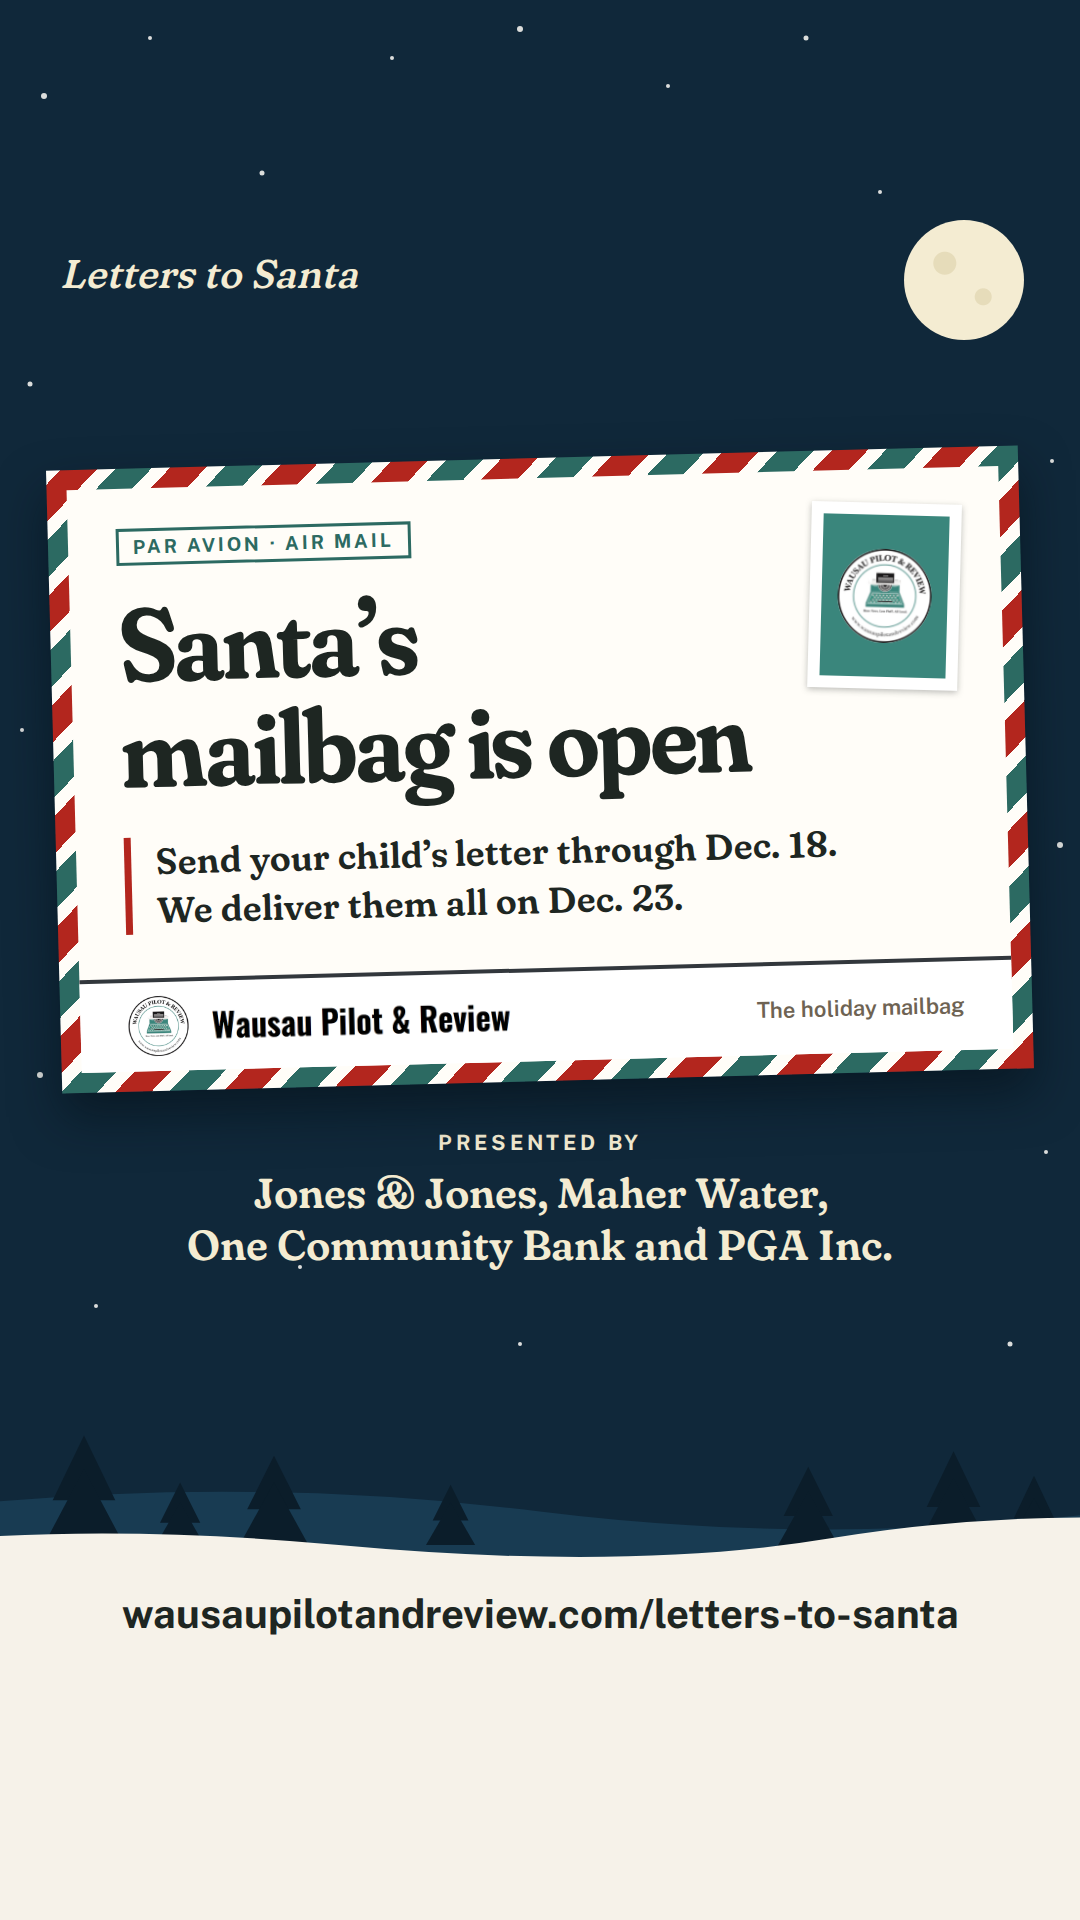
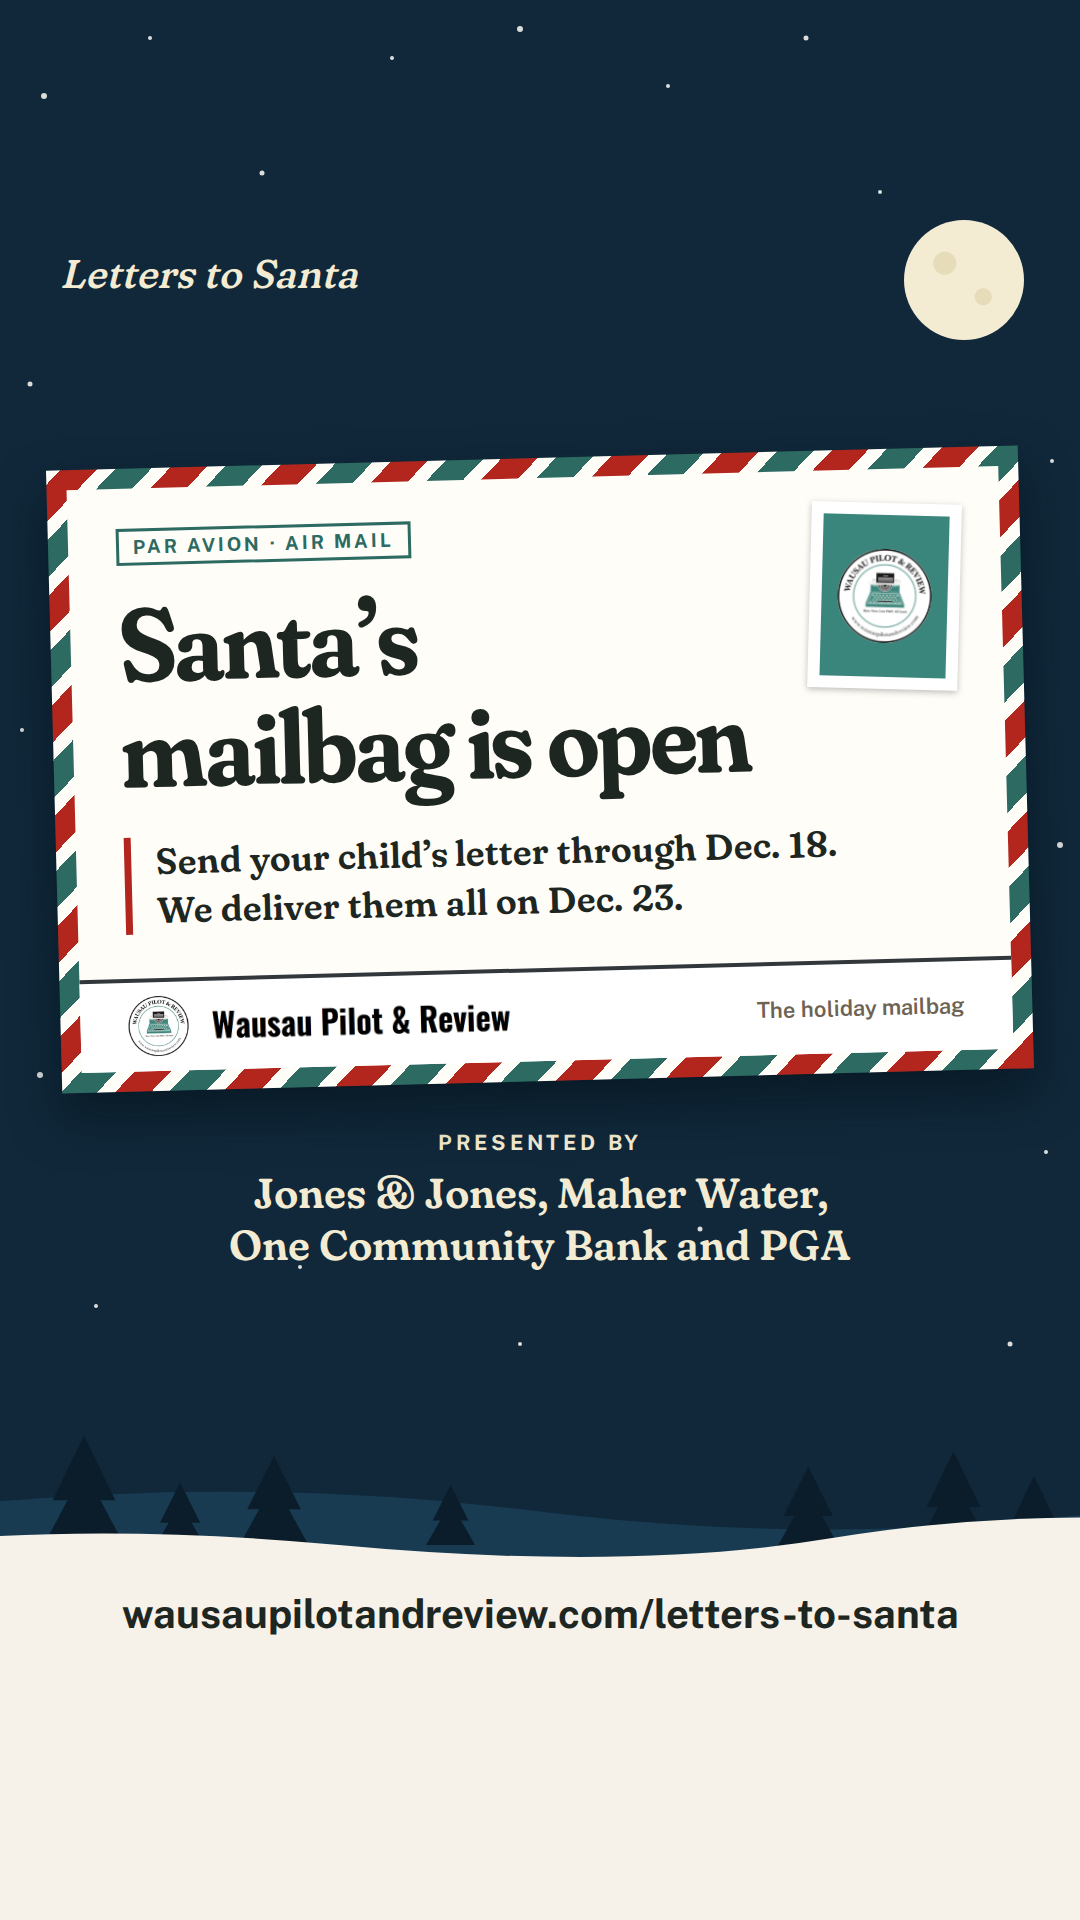
PGA's name as it should be set
The four presenting sponsors' names are confirmed: Jones & Jones, Maher
Water, One Community Bank, PGA. The launch kit is remade with "PGA" in
place of "PGA Inc.", and the ad list names it the same way, so a click on
its banner ad is counted under the name its row will have.

Changed region(s): [[0.1528, 0.625, 0.825, 0.6562]]

diff --git a/docs/social/posts.md b/docs/social/posts.md
@@ -11,9 +11,9 @@ Pictures: `1-letters-open-feed.png`, `1-letters-open-story.png`.
 
 > Santa’s mailbag is open! Parents and guardians, send your child’s letter to Santa through Dec. 18: type it, email it or mail it. We post letters as they come in and deliver every one to the North Pole on Dec. 23. https://wausaupilotandreview.com/letters-to-santa/
 >
-> Letters to Santa is presented by Jones & Jones, Maher Water, One Community Bank and PGA Inc.
+> Letters to Santa is presented by Jones & Jones, Maher Water, One Community Bank and PGA.
 
-Picture description (alt text): An airmail envelope on a snowy night reads “Santa’s mailbag is open.” Send your child’s letter through Dec. 18. We deliver them all on Dec. 23. Presented by Jones & Jones, Maher Water, One Community Bank and PGA Inc.
+Picture description (alt text): An airmail envelope on a snowy night reads “Santa’s mailbag is open.” Send your child’s letter through Dec. 18. We deliver them all on Dec. 23. Presented by Jones & Jones, Maher Water, One Community Bank and PGA.
 
 ## One week left to write to Santa
 
@@ -22,9 +22,9 @@ Pictures: `2-one-week-left-feed.png`, `2-one-week-left-story.png`.
 
 > One week left to write to Santa. Letters close Dec. 18. Read the ones already in the mailbag, and send your child’s before the sleigh leaves. https://wausaupilotandreview.com/letters-to-santa/
 >
-> Letters to Santa is presented by Jones & Jones, Maher Water, One Community Bank and PGA Inc.
+> Letters to Santa is presented by Jones & Jones, Maher Water, One Community Bank and PGA.
 
-Picture description (alt text): An airmail envelope on a snowy night reads “One week left to write to Santa.” Letters close Dec. 18. Type it, email it or mail it. Presented by Jones & Jones, Maher Water, One Community Bank and PGA Inc.
+Picture description (alt text): An airmail envelope on a snowy night reads “One week left to write to Santa.” Letters close Dec. 18. Type it, email it or mail it. Presented by Jones & Jones, Maher Water, One Community Bank and PGA.
 
 ## Delivered to the North Pole
 
@@ -33,6 +33,6 @@ Pictures: `3-delivered-feed.png`, `3-delivered-story.png`.
 
 > Every letter is on its way to the North Pole. Read them all, and see who won the prize drawing. Thank you to all the kids who wrote, and to the grown-ups who helped. https://wausaupilotandreview.com/letters-to-santa/
 >
-> Letters to Santa is presented by Jones & Jones, Maher Water, One Community Bank and PGA Inc.
+> Letters to Santa is presented by Jones & Jones, Maher Water, One Community Bank and PGA.
 
-Picture description (alt text): An airmail envelope on a snowy night reads “Delivered to the North Pole.” Read every letter in Santa’s mailbag. And see who won the prize drawing. Presented by Jones & Jones, Maher Water, One Community Bank and PGA Inc.
+Picture description (alt text): An airmail envelope on a snowy night reads “Delivered to the North Pole.” Read every letter in Santa’s mailbag. And see who won the prize drawing. Presented by Jones & Jones, Maher Water, One Community Bank and PGA.

diff --git a/CLAUDE.md b/CLAUDE.md
@@ -221,7 +221,7 @@ A flood of junk letters (abuse past Turnstile) is declined from the staff page: 
 - Supabase project, keys, secrets, SMTP, magic-link template, staff accounts: Shereen signs in with editor@wausaupilotandreview.com, Rowan with his own address (README, First deploy).
 - The digest's two Vault secrets (README, First deploy, step 10).
 - wpr-newsletter: done. Its `main` has the `santa-letters-section` change with production's address and key (checked Nov. 21; the save-and-read path was rehearsed on a local stack the same day: README, Newsletter). What's left is watching the first morning a section is saved.
-- Chris: the presenting sponsors' names as they should be set, then `docs/social/kit.json` and `scripts/browser-tests.sh social` (the launch kit was made Nov. 21 with the names as we had them).
+- The presenting sponsors' names are set (Rowan, Nov. 21): Jones & Jones, Maher Water, One Community Bank, PGA. The launch kit and the ad list (`ads.json`) use them; enter each on the staff page spelled the same way, so a click on a sponsor's banner ad is counted under the same name as a click on its stamp.
 - Shereen: the wording of the grown-up's part of Santa's letter paper (`#/paper`), which restates the form's permission for a letter that comes by mail.
 - One real-iPhone letter end to end inside WordPress, then take it down.
 
